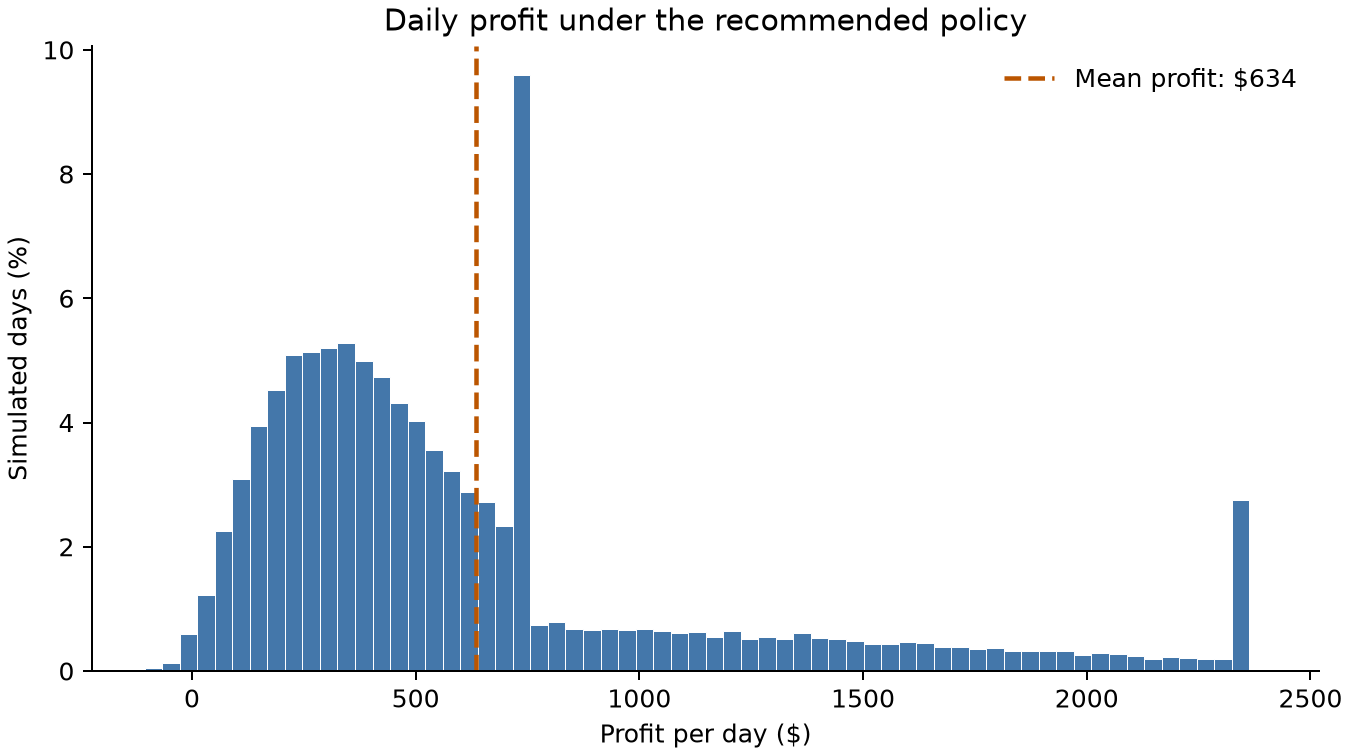
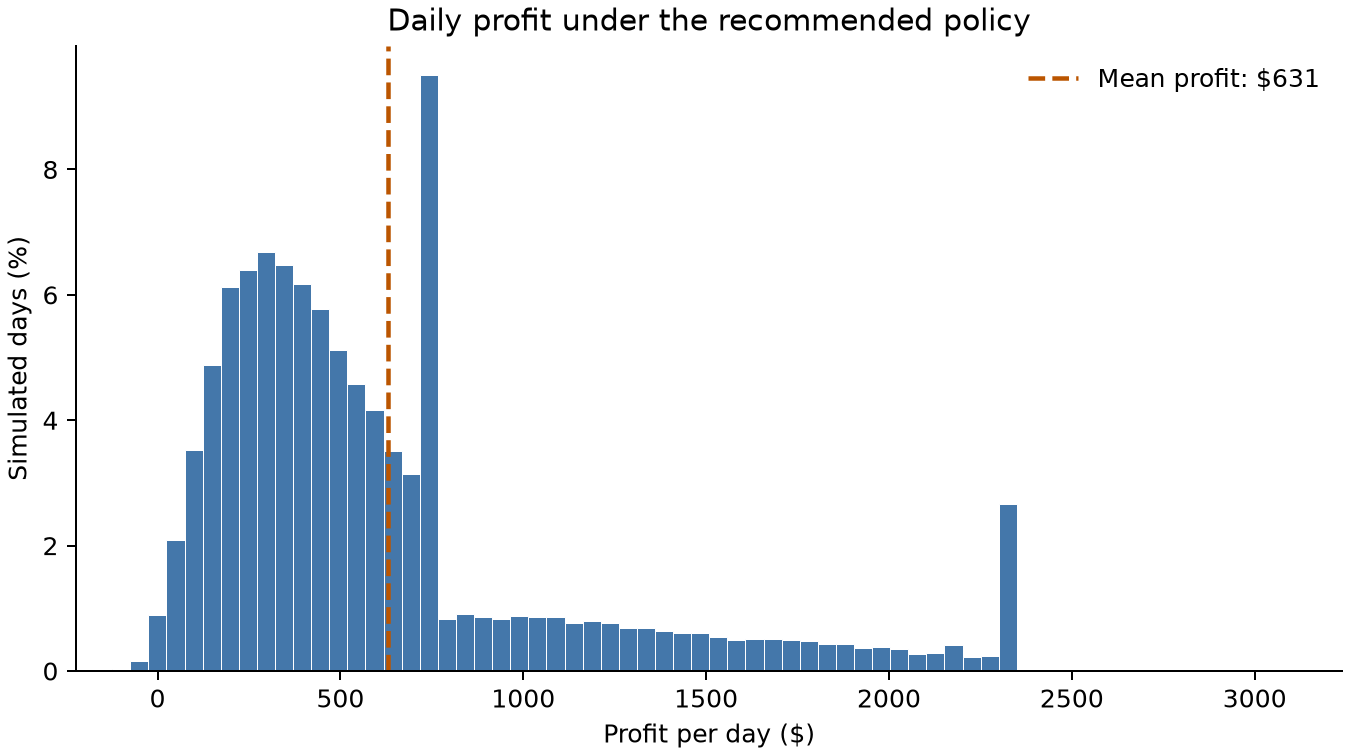
update inference docs (before code update)

diff --git a/docs/_static/figures/inference/plot_recommended_policy_profit.py b/docs/_static/figures/inference/plot_recommended_policy_profit.py
@@ -23,7 +23,7 @@ for source in re.findall(
 
 figures = [
     (
-        namespace["recommended_profit"],
+        namespace["recommended_profit"].values,
         "Daily profit under the recommended policy",
         "recommended_policy_profit.png",
     ),
@@ -34,12 +34,12 @@ figures = [
     ),
 ]
 bins = np.linspace(
-    min(posterior.values.min().item() for posterior, _, _ in figures),
-    max(posterior.values.max().item() for posterior, _, _ in figures),
+    min(values.min().item() for values, _, _ in figures),
+    max(values.max().item() for values, _, _ in figures),
     71,
 )
-for posterior, title, filename in figures:
-    profits = np.asarray(posterior.values)
+for values, title, filename in figures:
+    profits = np.asarray(values)
     fig, ax = plt.subplots(figsize=(7.5, 4.2), layout="constrained")
     ax.hist(
         profits,
@@ -50,11 +50,11 @@ for posterior, title, filename in figures:
         linewidth=0.4,
     )
     ax.axvline(
-        posterior.mean(),
+        profits.mean(),
         color="#bb5500",
         linestyle="--",
         linewidth=1.8,
-        label=f"Mean profit: ${posterior.mean():,.0f}",
+        label=f"Mean profit: ${profits.mean():,.0f}",
     )
     ax.set(
         xlabel="Profit per day ($)",
@@ -67,7 +67,7 @@ for posterior, title, filename in figures:
     output = Path(__file__).with_name(filename)
     fig.savefig(output, dpi=180)
     plt.close(fig)
-    print(f"{title}: mean ${posterior.mean():.2f}; {profits.size} draws")
+    print(f"{title}: mean ${profits.mean():.2f} from {profits.size} draws")
     print(f"Saved {output}")
 
 policies = [

diff --git a/docs/user_guide/inference.md b/docs/user_guide/inference.md
@@ -17,7 +17,7 @@ A small scalar-prior example could also show how an observation updates an uncer
 
 # Inference
 
-Finding the optimal solution to a decision problem is great, but PyLIMID's capabilities do not stop there. Following the ice cream shop example, the owner may have questions beyond how much to order. For instance:
+Finding a good policy for a decision problem is great, but PyLIMID's capabilities do not stop there. Following the ice cream shop example, the owner may have questions beyond how much to order. For instance:
 
 - What is the distribution of profits when following the recommended policy?
 - What happens if the owner follows a different policy?
@@ -31,7 +31,15 @@ We use [the same influence diagram as before](solving.md), with an order menu up
 import jax.numpy as jnp
 import numpyro.distributions as dist
 
-from pylimid import ChanceNode, DecisionNode, InfluenceDiagram, UtilityNode, infer, solve
+from pylimid import (
+    ChanceNode,
+    DecisionNode,
+    InfluenceDiagram,
+    TabularSoftmax,
+    UtilityNode,
+    infer,
+    solve,
+)
 
 DEMAND_MEANS = jnp.array([40.0, 120.0])
 BUSYNESS_MEAN = 1.2
@@ -79,7 +87,10 @@ diagram.add_node(
 )
 diagram.add_node(
     DecisionNode(
-        name="order", parents=("weather",), states=tuple(str(n) for n in ORDERS)
+        name="order",
+        parents=("weather",),
+        states=tuple(str(n) for n in ORDERS),
+        policy_family=TabularSoftmax(),
     )
 )
 diagram.add_node(UtilityNode(name="profit", parents=("order", "demand"), values=profit))
@@ -92,8 +103,8 @@ diagram
 To see the range and shape of the outcomes under the recommended policy, we first solve the diagram:
 
 ```{code-cell} ipython3
-solution = solve(diagram, num_samples=50_000)
-print(solution.render(diagram))
+solution = solve(diagram)
+print(solution.render())
 ```
 
 And then we ask {py:func}`infer` for the distribution of the `profit` node, passing the policy from the solution:
@@ -108,9 +119,11 @@ recommended_profit = infer(
 round(recommended_profit.mean().item(), 1)
 ```
 
-The result is a {py:class}`Posterior` object whose `values` are a JAX array containing the profit draws. Each draw represents the profit on one possible day (i.e., the model draws values for weather, `busyness`, hotel bookings and demand, and the policy chooses the corresponding order value).
+The result is a {py:class}`Posterior` object whose `values` are a JAX array containing the profit draws. Each draw represents the profit on one possible day (i.e., the model draws values for weather, `busyness`, hotel bookings and demand, and the policy samples an order from its fitted probabilities).
 
 Numerical summaries such as `mean()` also return JAX arrays. For this scalar profit node, the mean is a zero-dimensional array; `.item()` converts it to a Python number for display above.
+
+Here `num_samples` is the number of days to simulate. `rng_key` controls their randomness and defaults to a fixed key, so repeated calls with the same model and settings are reproducible.
 
 ```{admonition} Why the estimates differ
 :class: info
@@ -131,7 +144,7 @@ The spikes at \$720 and \$2,340 correspond to selling all 80 ice creams on a clo
 
 The distribution above includes all kinds of days because we have not provided any observations. Suppose today is sunny and the owner obtains a report showing that bookings at nearby hotels are high. For simplicity, we assume that the report is free and accurately identifies the booking state.
 
-Current `solution.policy` does not take into account that the owner has information about hotel bookings. To represent this, we add `bookings` as a parent of `order`:
+The current `solution.policy` does not take into account that the owner has information about hotel bookings. To represent this, we add `bookings` as a parent of `order`:
 
 ```{code-cell} ipython3
 from copy import deepcopy
@@ -142,23 +155,26 @@ report_diagram.add_arc("bookings", "order")
 report_diagram
 ```
 
-If we run {py:func}`solve` again, we can see the new policy recommends an order for each combination of weather and hotel bookings:
+If we run {py:func}`solve` again, we can see the new policy assigns order probabilities for each combination of weather and hotel bookings:
 
 ```{code-cell} ipython3
-report_solution = solve(report_diagram, num_samples=50_000)
-print(report_solution.render(report_diagram))
+report_solution = solve(report_diagram)
+print(report_solution.render())
 ```
 
-We can now use {py:func}`infer` to see the distribution of profits for a sunny day with high bookings under that policy. The `observed` argument records these observations using state indices: `1` for sunny weather and `1` for high bookings. Busyness and demand remain unobserved:
+We can now use {py:func}`infer` to see the distribution of profits for sunny days with high bookings under that policy. Fitted policies currently support forward simulation without `observed`, so we draw weather, bookings and profit together, then keep the days matching the report. Values at the same position in each array belong to the same simulated day:
 
 ```{code-cell} ipython3
-sunny_profit = infer(
+report_draws = infer(
     report_diagram,
-    query=["profit"],
+    query=["weather", "bookings", "profit"],
     policy=report_solution.policy,
-    observed={"weather": 1, "bookings": 1},
     num_samples=50_000,
-)["profit"]
+)
+sunny_high = (report_draws["weather"].values == 1) & (
+    report_draws["bookings"].values == 1
+)
+sunny_profit = report_draws["profit"].values[sunny_high]
 round(sunny_profit.mean().item(), 1)
 ```
 
@@ -196,7 +212,7 @@ This policy orders more than the recommended 80 ice creams on cloudy days and fe
 
 So far, we have used {py:func}`infer` to explore profit under different policies, but we can also ask questions about other variables in the model. Suppose today is sunny and only 150 ice creams arrive from the supplier. How likely is it that demand exceeds the available stock?
 
-To answer this question, we ask for the distribution of `demand` given sunny weather. In this example, the owner has no hotel report, so bookings remain unknown:
+To answer this question, we ask for the distribution of `demand` given sunny weather. The `observed` argument records sunny weather as state index `1`. In this example, the owner has no hotel report, so bookings remain unknown:
 
 ```{code-cell} ipython3
 sunny_demand = infer(
